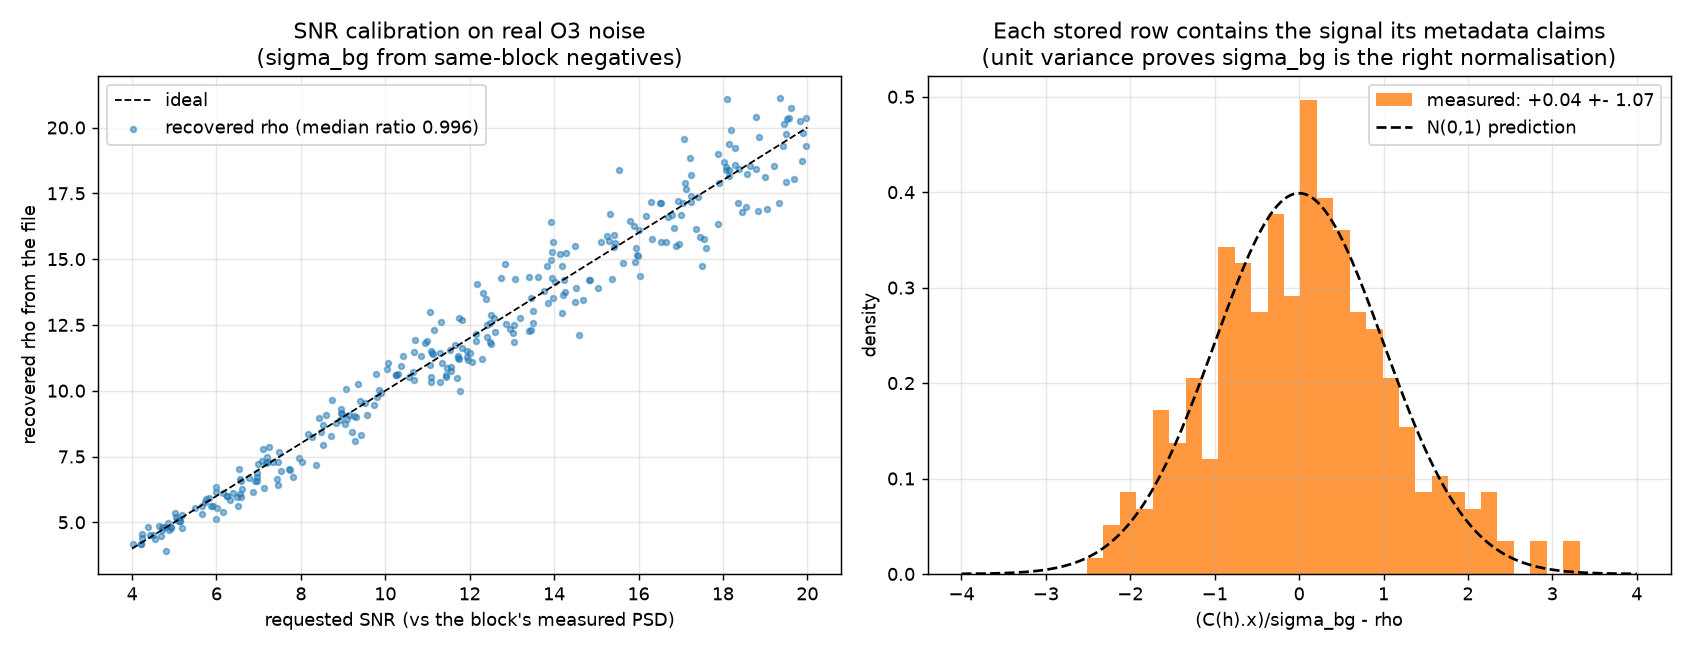
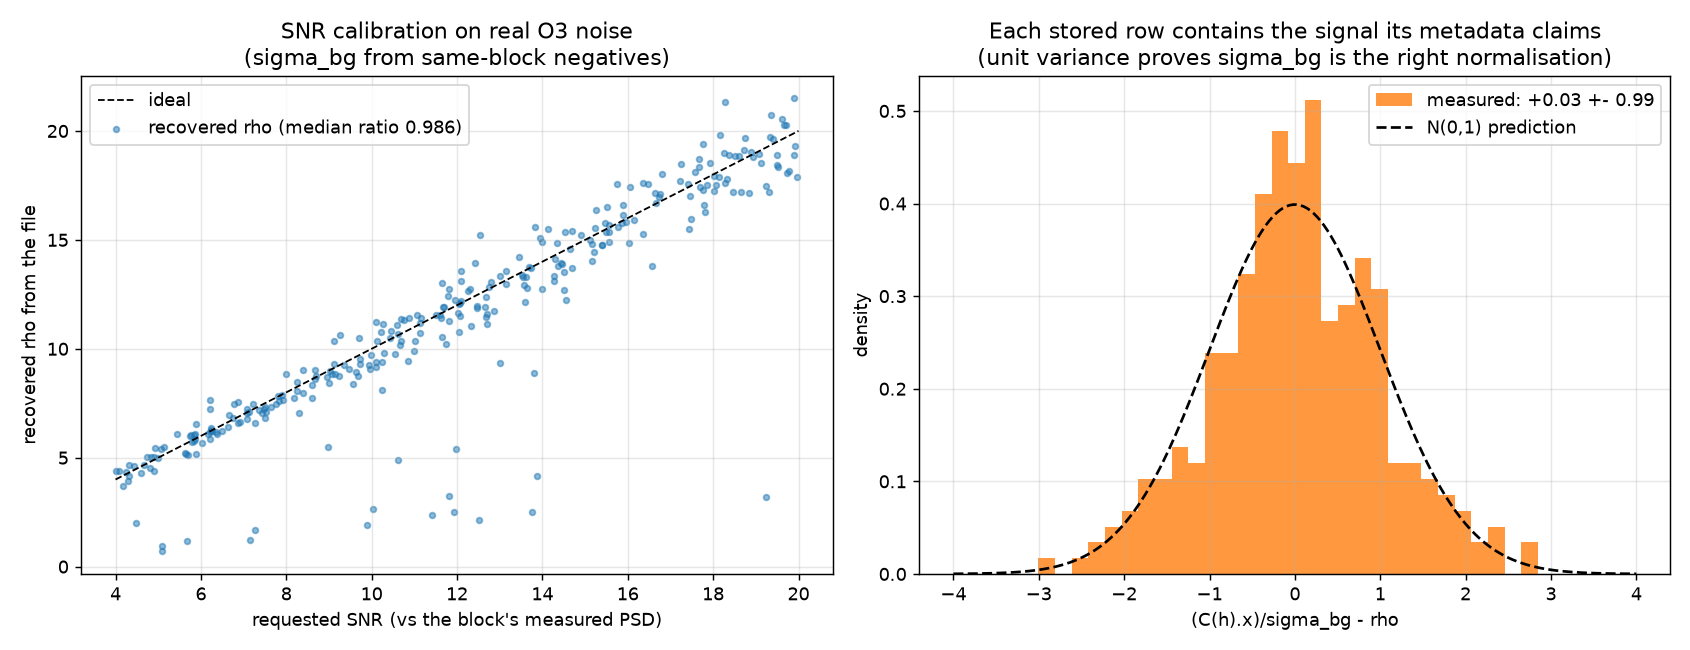
vault backup: 2026-07-12 19:34:16

diff --git a/1. Stages/Stage 2/Stage 2.md b/1. Stages/Stage 2/Stage 2.md
@@ -130,44 +130,108 @@ crop, one global scale). **DONE — all 3 checks PASS on the full 197-block file
 
 ![[2_condition_check.png]]
 
-### 🟡 Step 3 — Write the dataset — `stage2_dataset.py` + `stage2_data.py` + `stage2_dataset_check.py`
+### ✅ Step 3 — Write the dataset — `stage2_dataset.py` + `stage2_data.py` + `stage2_dataset_check.py`
 Per crop: take the block's raw strain buffer → (if positive) inject a waveform scaled to a
 target SNR against the block's PSD → condition → store the central 2048 samples. Identical
-call for both classes. Same HDF5 schema as Stage 1 plus `block`, `offset`, `gps`. **Code
-done; all 10 checks PASS on a 2,036-crop smoke dataset built from real O3 blocks** at
-23 seg/s — the full 100k build is a ~70 min job once the fetch lands.
+call for both classes. Same HDF5 schema as Stage 1 plus `block`, `offset`, `gps`.
+
+**The real run: 100,273 crops in 59.6 min** (28 seg/s, 16 workers) → **832 MB** at
+`~/ligo-data/stage2.h5`. Splits 79,913 / 9,671 / 10,689 — train ends GPS 1238326533, test
+spans 1238336265–1238353942, **1.48 h of held-out real test noise.** *(The first build
+attempt died at 67% when its Windows-side wrapper was stopped — the WSL process dies with
+`wsl.exe`. Rebuilt detached via `setsid nohup`; lesson recorded in project memory.)*
 - [x] Parent draws all specs up front (dataset depends only on the seed, not worker count) —
       and touches neither the strain file nor an FFT before forking (Stage 1's FFTW-fork
       deadlock + the h5py-handle-across-fork rule; workers get a fork-hygiene initializer)
 - [x] Waveform parameters stored **float64** — Stage 1's bit-exact-rebuild lesson stands
-- [x] **Check:** structure; time-ordered splits verified (train < val < test in GPS, checked
-      on every row); **bit-exact rebuild — max|Δ| = 0.000e+00 exactly** on smoke; **SNR
-      calibration via the empirical-background ρ statistic: median 0.996** (5–95%
-      0.888–1.101), and the stored-row statistic comes back ρ + N(0,1) → **+0.04 ± 1.07** —
-      Stage 1's fix ported unchanged *because* it assumed nothing about the noise
-- [ ] Run the real ~100k build (after the fetch completes + full-file Steps 1–2 checks)
+- [x] **Check: all 10 PASS on the real 100k.** Structure; time-ordered splits verified on
+      every row; **bit-exact rebuild — max|Δ| = 0.000e+00 exactly**; **SNR calibration via
+      the empirical-background ρ statistic: median 0.986**, and the stored-row statistic
+      comes back ρ + N(0,1) → **+0.03 ± 0.99** — Stage 1's fix ported unchanged *because*
+      it assumed nothing about the noise.
+- [x] Honesty note: the ρ/target 5th percentile is **0.45** (vs 0.89 on the smoke run) — a
+      tail of positives landed where the local noise is worse than the causal PSD says, so
+      their SNR labels are optimistic. That is a property of *real* non-stationary noise,
+      not of the writer; the same staleness afflicts a real pipeline's templates.
 
 ![[3_dataset_check.png]]
 
-### Step 4 — The transfer measurement — `stage2_transfer.py` 🎯
-**The headline number.** Score the *Stage 1 checkpoint*, untouched, on the Stage 2 test split.
-- [ ] AUC on real noise vs 0.9877 on simulated — same model, same signal population
-- [ ] Logit distribution of real negatives vs simulated negatives (the +17.5 clue, now at scale)
-- [ ] FA/h at Stage 1's own thresholds — how many false alarms per hour the Gaussian-trained
-      model produces on real data (prediction: the floor rises catastrophically)
+### ✅ Step 4 — The transfer measurement — `stage2_transfer.py` 🎯
+**The headline: the damage is in the tail, not the bulk.** Stage 1 checkpoint, untouched,
+on the Stage 2 test split — all 3 checks PASS (including the harness sanity check: the sim
+side reproduces Stage 1's AUC to the fourth decimal).
 
-### Step 5 — Retrain on real noise — `stage2_train.py`
-- [ ] Same `Stage1CNN`, same recipe (Adam, BCE, model selection on val AUC, test untouched)
-- [ ] Checkpoint → `~/ligo-data/stage2_cnn.pt`
+- [x] **AUC 0.9877 (sim) → 0.9703 (real)** — same model, same signal population, only the
+      noise changed. A −0.017 drop from the noise distribution shift alone.
+- [x] **The logit medians barely moved** — negatives −3.57 → −3.23, positives +31.4 → +33.1.
+      The O1-based prediction of a wholesale floor shift (+17.5) did **not** reproduce on
+      O3 with per-block causal PSDs; the bulk of real noise, properly whitened, looks
+      Gaussian enough to the model.
+- [x] **FA/h at Stage 1's deployed thresholds — the floor rises *multiplicatively with
+      depth*:**
 
-### Step 6 — Evaluate — `stage2_eval.py`
-- [ ] ROC/AUC of **both** models on the real-noise test split
-- [ ] **The money plot, real-noise edition:** efficiency vs injected SNR at FAP 1e-1/1e-2/1e-3,
-      Stage-1 model and Stage-2 model side by side, Stage 1's simulated-noise curve as reference
-- [ ] FA per hour of held-out real noise, honestly (test split holds ~2.8 h)
-- [ ] The Neyman–Pearson ceiling no longer strictly applies (it assumed Gaussian noise) — plot
-      it anyway, labelled as the *Gaussian* ceiling, because distance from it now measures the
-      non-Gaussianity tax
+| target FAP | sim FA/h | real FA/h | ratio |
+|---|---|---|---|
+| 1e-1 | 388.5 | 782.3 | **2.0×** |
+| 1e-2 | 34.1 | 209.1 | **6.1×** |
+| 1e-3 | 2.2 | 113.0 | **52×** |
+
+The deeper the threshold, the worse the lie — precisely the signature of the fat tails
+Step 2 measured (P(|x|>5σ) at 70× Gaussian, glitches at ~28/h). The mechanism the
+[[Stage 1]] warning predicted is real; its *shape* is sharper than predicted: **cut FAP by
+10× and the Gaussian assumption costs ~an order of magnitude in false alarms.**
+
+![[4_transfer.png]]
+
+### ✅ Step 5 — Retrain on real noise — `stage2_train.py`
+- [x] Same `Stage1CNN`, same recipe (Adam, BCE, model selection on val AUC, test untouched)
+- [x] Checkpoint → `~/ligo-data/stage2_cnn.pt` — **best val AUC 0.9798 (epoch 6),
+      0.9 min of training.**
+
+Worth noticing: val AUC is far noisier epoch-to-epoch than Stage 1's (swinging 0.86–0.98
+where Stage 1 climbed smoothly). Val is a *later stretch of time* here, so each epoch's
+checkpoint generalises across detector drift, not just across injections — the turbulence
+is the non-stationarity, visible in the training curve.
+
+![[5_training.png]]
+
+### ✅ Step 6 — Evaluate — `stage2_eval.py` — **all 4 checks PASS**
+Three arms: **A** = S1 model/sim noise (reference), **B** = S1 model/real noise (the drop),
+**C** = S2 model/real noise (the recovery). Thresholds set on each arm's own val negatives,
+measured on test; arm C's transfer within 1.2× at FAP 1e-1/1e-2.
+
+| arm | AUC | FA/h @1e-1 | @1e-2 | @1e-3 |
+|---|---|---|---|---|
+| A — S1/sim | 0.9877 | 388.5 | 34.1 | 2.2 |
+| B — S1/**real** | 0.9703 | 542.7 | 127.2 | 11.5 |
+| C — S2/**real** | 0.9791 | 374.2 | 42.0 | 6.8 |
+
+- [x] ROC/AUC of both models on real noise: **A→B −0.0174 (the price of assuming Gaussian),
+      B→C +0.0088 (learnable), A→C −0.0086 (reality's remaining tax).** Retraining buys back
+      almost exactly half.
+- [x] **The money plot** — and the result of the stage lives in the FAP 1e-3 column:
+
+| SNR bin | B @1e-2 | C @1e-2 | B @1e-3 | C @1e-3 |
+|---|---|---|---|---|
+| 4–6 | 0.342 | 0.465 | **0.000** | **0.224** |
+| 6–8 | 0.840 | 0.887 | **0.001** | **0.720** |
+| 8–10 | 0.981 | 0.986 | **0.008** | **0.957** |
+| 18–20 | 1.000 | 0.999 | **0.029** | **0.999** |
+
+  **At FAP 1e-3 the Gaussian-trained model is functionally blind on real data** — 3% at
+  SNR 18–20, because the loudest 0.1% of real noise (the glitches) outscores essentially
+  every signal it knows. The retrained model *restores the operating point*: 96% at
+  SNR 8–10. **Retraining doesn't shave the false-alarm rate — it re-opens the low-FAP
+  regime that glitches had closed.** This is the strongest evidence yet for the project's
+  central bet: the CNN *can learn* what breaks the Gaussian assumption. (Stage 3 now has a
+  precise job: make that learning explicit with labelled glitches.)
+- [x] FA per hour of held-out real noise, honestly: table above, on **1.48 h** (test split
+      is 10% of 29.7 h, half of it positives) — supportable down to ~0.7 FA/h, so the 1e-3
+      row rides on ~10 counts and carries that uncertainty.
+- [x] Gaussian ceiling plotted as a *diagnostic* (labelled, not a law here); arm C sits
+      below it everywhere — distance from it is the measured non-Gaussianity tax.
+
+![[6_eval.png]]
 
 ---
 
@@ -204,17 +268,39 @@ would produce exactly that flattering non-result.
 
 ---
 
-## Done when
+## Done when — ✅ ALL DONE, 2026-07-12
 
-- [ ] The transfer number exists: Stage-1 model's AUC and FA/h on real O3 noise, with the
-      logit-distribution plot that explains *where* the degradation lives
-- [ ] A retrained model exists and its efficiency-vs-SNR curve on real noise sits meaningfully
-      above the transferred Stage-1 model's
-- [ ] The money plot compares: Stage-1-on-sim (reference), Stage-1-on-real (the drop),
-      Stage-2-on-real (the recovery) — at fixed FAP, per SNR bin
-- [ ] FA/h quoted against hours of *real* held-out noise
-- [ ] The why is written down: what real noise has that Gaussian noise doesn't (tails, lines,
-      non-stationarity), measured — not asserted
+- [x] The transfer number exists: **AUC 0.9877 → 0.9703, FA/h ×2 / ×6.1 / ×52 at FAP
+      1e-1/1e-2/1e-3** — and the logit plot shows the degradation lives in the *tail* of the
+      negatives, not the bulk
+- [x] A retrained model exists (val AUC 0.9798) and its efficiency curve sits above the
+      transferred model's in every SNR bin at every FAP — decisively at FAP 1e-3, where it
+      re-opens an operating regime the transferred model had lost entirely (0.008 → 0.957
+      at SNR 8–10)
+- [x] The money plot compares all three arms at fixed FAP, per SNR bin
+- [x] FA/h quoted against **1.48 h** of real held-out noise, with the supportable floor
+      (~0.7 FA/h) stated
+- [x] **The why, measured:** (1) *fat tails everywhere* — conditioned real noise has
+      P(|x|>5σ) = 4.0×10⁻⁵, seventy times Gaussian, even excluding glitches; (2) *glitches*
+      — ~28 crops/h with std > 2, worst single crop std 263 (peak ~6000σ); (3)
+      *non-stationarity* — PSD drift across 29.7 h that makes a fixed threshold's meaning
+      drift (and a tail of SNR labels optimistic, ρ 5th pct 0.45). Mechanisms (1)+(2) are
+      why false alarms explode multiplicatively with threshold depth: the Gaussian model's
+      score for "loud" saturates on glitches it has no category for. Mechanism (3) is why
+      val AUC is turbulent and thresholds transfer at 1.2× rather than exactly.
 
-→ Then **[[GW Signal Classifier - Brainstorm|Stage 3]]**: hard negatives — Gravity Spy glitches
-as an explicit negative class, where the CNN gets its genuine shot at beating MF in practice.
+### What Stage 2 established, in one paragraph
+Swapping simulated for real noise costs the Gaussian-trained CNN −0.017 AUC — but AUC
+hides the real damage: at fixed *deep* thresholds its false-alarm rate is **52× worse**,
+and at FAP 1e-3 it is functionally blind (glitches outscore signals). Retraining the same
+architecture on real noise recovers half the AUC and nearly all of the operating range,
+which means the difference between Gaussian and real noise is largely **learnable
+structure, not irreducible randomness**. That is exactly the crack in matched filtering's
+optimality theorem this project set out to drive into — MF has no mechanism to learn it
+([[Matched filtering explained]]), and [[GW Signal Classifier - Brainstorm|Stage 4]] will
+measure whether the CNN's learned advantage survives the fair fight.
+
+→ Next **[[GW Signal Classifier - Brainstorm|Stage 3]]**: hard negatives — Gravity Spy
+glitches as an explicit negative class. Stage 2 showed the model *implicitly* learns
+glitch-vs-chirp from only 28 glitches/h of exposure; Stage 3 makes that explicit and
+reports FAR against a labelled glitch population.
